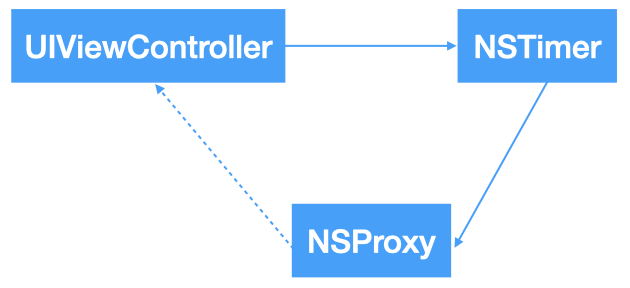
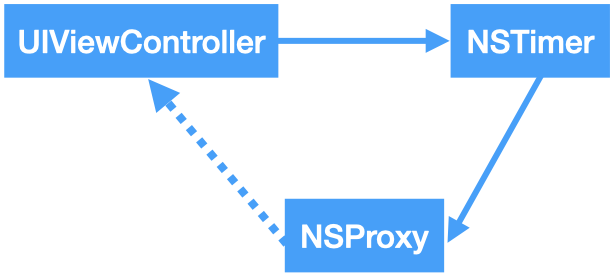
Update images.

Changed region(s): [[0.0, 0.0, 1.0, 1.0]]

diff --git a/_posts/2021-02-20-NSTimer-circular-reference.md b/_posts/2021-02-20-NSTimer-circular-reference.md
@@ -51,7 +51,7 @@ tags: [iOS, 定时器, NSTimer, NSProxy]
 
 在上述代码中，`viewController` 强引用了 `timer`，`timer` 又强引用了 `target` (即 `viewController`)，形成了循环引用：
 
-![](/images/2021/NSTimer-circular-reference-1.png)
+![](/images/2021/NSTimer-circular-reference-1.png){: .normal}
 
 由于 `timer` 强引用了 `viewController`，所以即使从 `viewController` 页面退出后，其引用计数也大于 0，导致 `viewController` 的 `dealloc` 方法不会执行，因此 `dealloc` 里的 `[self.timer invalidate]` 也就无法执行了。
 
@@ -93,7 +93,7 @@ self.timer = [NSTimer timerWithTimeInterval:1 repeats:YES block:^(NSTimer * _Non
 
 关系图如下（虚线代表弱引用）：
 
-![](/images/2021/NSTimer-circular-reference-2.png)
+![](/images/2021/NSTimer-circular-reference-2.png){: .normal}
 
 先添加 `NSProxy` 的子类 `LBWeakProxy`：  
 
